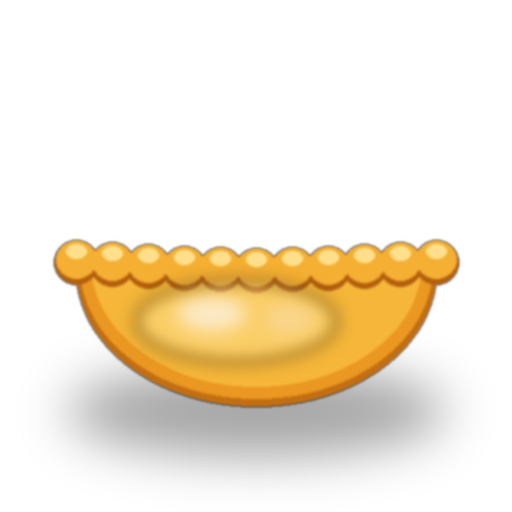
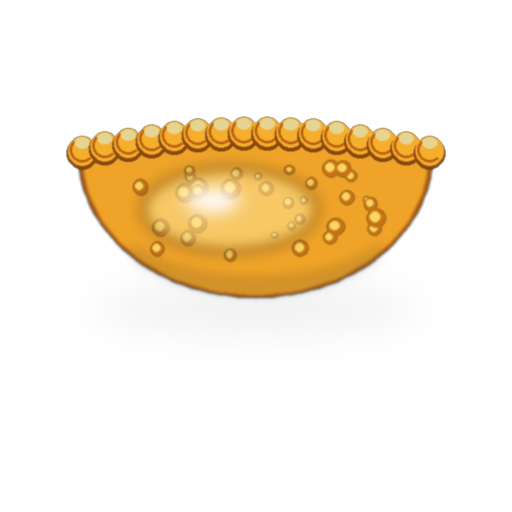
feat: empanada 3d ultra mejorada con rotacion 360 y visibilidad de suite de iconos 3d en dashboard y tpv

diff --git a/src/components/erp/DashboardModule.tsx b/src/components/erp/DashboardModule.tsx
@@ -98,10 +98,62 @@ export function DashboardModule() {
     <div className="space-y-4 sm:space-y-6 p-3 sm:p-6">
       <div className="flex flex-col sm:flex-row sm:items-center sm:justify-between gap-3 sm:gap-4">
         <div>
-          <h1 className="text-xl sm:text-2xl font-bold text-foreground flex items-center gap-2 flex-wrap">
-            Bienvenido a NovaSystem · Dr. Empanadas <Emoji3D name="empanada" size={32} />
-          </h1>
-          <p className="text-xs sm:text-sm text-muted-foreground mt-0.5">
+          <div className="flex items-center gap-3 flex-wrap">
+            <h1 className="text-xl sm:text-2xl font-bold text-foreground flex items-center gap-2.5">
+              Bienvenido a NovaSystem · Dr. Empanadas
+            </h1>
+            <div className="relative group inline-block">
+              <Emoji3D
+                name="empanada"
+                size={44}
+                spin360
+                interactive
+                className="cursor-pointer filter hover:drop-shadow-[0_4px_12px_rgba(245,158,11,0.5)] transition-all"
+              />
+              <span className="absolute -bottom-6 left-1/2 -translate-x-1/2 whitespace-nowrap bg-slate-900 text-amber-300 text-[10px] font-bold px-2 py-0.5 rounded-full opacity-0 group-hover:opacity-100 transition pointer-events-none shadow-md border border-amber-500/30">
+                Gira 360° en 3D 🔄
+              </span>
+            </div>
+          </div>
+
+          {/* Vitrina 3D Criolla (Empanada, Pastelito, Malta, Café) */}
+          <div className="flex items-center gap-2 mt-2 flex-wrap">
+            <span className="text-[11px] font-semibold text-muted-foreground mr-1">Iconos 3D de la Casa:</span>
+            <div
+              onClick={() => pos.setActiveModule("pos")}
+              className="flex items-center gap-1.5 px-2.5 py-1 rounded-xl bg-amber-500/10 border border-amber-500/25 hover:bg-amber-500/20 text-amber-700 dark:text-amber-300 text-xs font-semibold cursor-pointer transition active:scale-95"
+              title="Empanada Criolla 3D — Toca para probar en TPV"
+            >
+              <Emoji3D name="empanada" size={20} spinOnHover interactive />
+              <span>Empanada 3D</span>
+            </div>
+            <div
+              onClick={() => pos.setActiveModule("pos")}
+              className="flex items-center gap-1.5 px-2.5 py-1 rounded-xl bg-orange-500/10 border border-orange-500/25 hover:bg-orange-500/20 text-orange-700 dark:text-orange-300 text-xs font-semibold cursor-pointer transition active:scale-95"
+              title="Pastelito 3D — Toca para probar en TPV"
+            >
+              <Emoji3D name="pastelito" size={20} spinOnHover interactive />
+              <span>Pastelito 3D</span>
+            </div>
+            <div
+              onClick={() => pos.setActiveModule("pos")}
+              className="flex items-center gap-1.5 px-2.5 py-1 rounded-xl bg-blue-500/10 border border-blue-500/25 hover:bg-blue-500/20 text-blue-700 dark:text-blue-300 text-xs font-semibold cursor-pointer transition active:scale-95"
+              title="Malta Polar 3D — Toca para probar en TPV"
+            >
+              <Emoji3D name="malta" size={20} spinOnHover interactive />
+              <span>Malta 3D</span>
+            </div>
+            <div
+              onClick={() => pos.setActiveModule("pos")}
+              className="flex items-center gap-1.5 px-2.5 py-1 rounded-xl bg-stone-500/10 border border-stone-500/25 hover:bg-stone-500/20 text-stone-700 dark:text-stone-300 text-xs font-semibold cursor-pointer transition active:scale-95"
+              title="Café Expreso 3D — Toca para probar en TPV"
+            >
+              <Emoji3D name="cafe" size={20} spinOnHover interactive />
+              <span>Café 3D</span>
+            </div>
+          </div>
+
+          <p className="text-xs sm:text-sm text-muted-foreground mt-1.5">
             Resumen ejecutivo —{" "}
             {new Date().toLocaleDateString("es-VE", {
               weekday: "long",

diff --git a/src/components/common/Emoji3D.tsx b/src/components/common/Emoji3D.tsx
@@ -1,41 +1,84 @@
-import React from "react";
+import React, { useState } from "react";
+
+export type Emoji3DName = "empanada" | "pastelito" | "malta" | "cafe";
 
 interface Emoji3DProps {
-  name: "empanada" | "pastelito" | "malta";
+  name: Emoji3DName;
   size?: number | string;
   className?: string;
   alt?: string;
+  spin360?: boolean;
+  interactive?: boolean;
+  spinOnHover?: boolean;
+  onClick?: () => void;
 }
 
-const EMOJI_MAP = {
+const EMOJI_MAP: Record<Emoji3DName, string> = {
   empanada: "/emojis/3d-empanada.png",
   pastelito: "/emojis/3d-pastelito.png",
   malta: "/emojis/3d-malta.png",
+  cafe: "/emojis/3d-cafe.png",
 };
 
-const ALT_MAP = {
-  empanada: "🥟",
-  pastelito: "🥪",
-  malta: "🥤",
+const ALT_MAP: Record<Emoji3DName, string> = {
+  empanada: "🥟 Empanada 3D",
+  pastelito: "🥪 Pastelito 3D",
+  malta: "🥤 Malta 3D",
+  cafe: "☕ Café 3D",
 };
 
-export function Emoji3D({ name, size = 28, className = "", alt }: Emoji3DProps) {
+export function Emoji3D({
+  name,
+  size = 32,
+  className = "",
+  alt,
+  spin360 = false,
+  interactive = false,
+  spinOnHover = false,
+  onClick,
+}: Emoji3DProps) {
+  const [isSpinning, setIsSpinning] = useState(false);
   const src = EMOJI_MAP[name] || EMOJI_MAP.empanada;
   const fallbackAlt = alt || ALT_MAP[name] || "emoji";
 
+  const numSize = typeof size === "number" ? size : parseInt(String(size), 10) || 32;
+
+  function handleClick(e: React.MouseEvent) {
+    if (interactive) {
+      setIsSpinning(true);
+      setTimeout(() => setIsSpinning(false), 800);
+    }
+    if (onClick) onClick();
+  }
+
   return (
-    <img
-      src={src}
-      alt={fallbackAlt}
-      width={size}
-      height={size}
-      loading="eager"
-      className={`inline-block align-middle transition-transform duration-200 hover:scale-115 select-none drop-shadow-sm ${className}`}
+    <span
+      className={`inline-flex items-center justify-center select-none align-middle perspective-500 ${
+        interactive ? "cursor-pointer" : ""
+      } ${className}`}
       style={{
-        width: typeof size === "number" ? `${size}px` : size,
-        height: typeof size === "number" ? `${size}px` : size,
-        objectFit: "contain",
+        width: `${numSize}px`,
+        height: `${numSize}px`,
+        perspective: "600px",
       }}
-    />
+      onClick={handleClick}
+      title={interactive ? "¡Tócame para girar 360°!" : fallbackAlt}
+    >
+      <img
+        src={src}
+        alt={fallbackAlt}
+        width={numSize}
+        height={numSize}
+        loading="eager"
+        className={`w-full h-full object-contain drop-shadow-md transition-all duration-300 will-change-transform ${
+          spin360 ? "animate-spin-360-slow" : ""
+        } ${spinOnHover ? "hover:rotate-y-180 hover:scale-115" : ""} ${
+          isSpinning ? "animate-spin-360-fast" : ""
+        }`}
+        style={{
+          transformStyle: "preserve-3d",
+        }}
+      />
+    </span>
   );
 }

diff --git a/src/routes/index.tsx b/src/routes/index.tsx
@@ -73,21 +73,31 @@ export function PosTerminal() {
           </button>
         </div>
 
-        {/* Modern Category Pills */}
+        {/* Modern Category Pills with 3D Icons */}
         <div className="mt-3 flex gap-2 overflow-x-auto pb-1 no-scrollbar">
-          {CATEGORIES.map((c) => (
-            <button
-              key={c}
-              onClick={() => setCat(c)}
-              className={`whitespace-nowrap rounded-xl px-4 py-2 text-xs font-bold transition-all select-none active:scale-95 ${
-                cat === c
-                  ? "bg-primary text-primary-foreground shadow-sm shadow-primary/25"
-                  : "border border-border/80 bg-card text-muted-foreground hover:border-primary/40 hover:text-foreground hover:bg-secondary/70"
-              }`}
-            >
-              {c}
-            </button>
-          ))}
+          {CATEGORIES.map((c) => {
+            const getIcon = () => {
+              if (c === "Empanadas") return <Emoji3D name="empanada" size={20} spinOnHover />;
+              if (c === "Pastelitos") return <Emoji3D name="pastelito" size={20} spinOnHover />;
+              if (c === "Bebidas") return <Emoji3D name="malta" size={20} spinOnHover />;
+              if (c === "Café") return <Emoji3D name="cafe" size={20} spinOnHover />;
+              return null;
+            };
+            return (
+              <button
+                key={c}
+                onClick={() => setCat(c)}
+                className={`whitespace-nowrap rounded-xl px-3.5 py-2 text-xs font-bold transition-all select-none active:scale-95 flex items-center gap-1.5 ${
+                  cat === c
+                    ? "bg-primary text-primary-foreground shadow-sm shadow-primary/25"
+                    : "border border-border/80 bg-card text-muted-foreground hover:border-primary/40 hover:text-foreground hover:bg-secondary/70"
+                }`}
+              >
+                {getIcon()}
+                <span>{c}</span>
+              </button>
+            );
+          })}
         </div>
 
         {/* Product Cards Grid */}

diff --git a/src/components/pos/ProductCard.tsx b/src/components/pos/ProductCard.tsx
@@ -1,5 +1,6 @@
 import type { Product } from "@/types/pos";
 import { fmtBs, fmtUsd } from "@/lib/money";
+import { Emoji3D } from "@/components/common/Emoji3D";
 
 export function ProductCard({ product, rate, onAdd }: { product: Product; rate: number; onAdd: (p: Product, mod?: string) => void }) {
   const low = product.stockBar < 25;
@@ -25,7 +26,17 @@ export function ProductCard({ product, rate, onAdd }: { product: Product; rate: 
                 : "bg-gradient-to-br from-cyan-500/20 via-blue-500/10 to-indigo-500/20 text-cyan-700 dark:text-cyan-300 border border-cyan-500/20"
             }`}
           >
-            {product.emoji}
+            {product.category === "Empanadas" || product.name.toLowerCase().includes("empanada") ? (
+              <Emoji3D name="empanada" size={36} spinOnHover />
+            ) : product.category === "Pastelitos" || product.name.toLowerCase().includes("pastelito") ? (
+              <Emoji3D name="pastelito" size={36} spinOnHover />
+            ) : product.category === "Bebidas" || product.name.toLowerCase().includes("malta") ? (
+              <Emoji3D name="malta" size={36} spinOnHover />
+            ) : product.name.toLowerCase().includes("café") || product.name.toLowerCase().includes("cafe") ? (
+              <Emoji3D name="cafe" size={36} spinOnHover />
+            ) : (
+              <span>{product.emoji}</span>
+            )}
           </div>
           <span
             className={`rounded-full px-2 py-0.5 font-mono text-[10px] font-bold tracking-tight transition-colors ${

diff --git a/src/styles.css b/src/styles.css
@@ -243,3 +243,25 @@
   .print-area, .print-area * { visibility: visible !important; }
   .print-area { display: block !important; position: absolute; left: 0; top: 0; background: #fff; color: #000; }
 }
+
+
+/* 3D Spin 360 Animations for Custom Food Emojis */
+@keyframes spin360 {
+  0% {
+    transform: perspective(800px) rotateY(0deg);
+  }
+  50% {
+    transform: perspective(800px) rotateY(180deg) scale(1.08);
+  }
+  100% {
+    transform: perspective(800px) rotateY(360deg);
+  }
+}
+
+.animate-spin-360-slow {
+  animation: spin360 9s cubic-bezier(0.45, 0.05, 0.55, 0.95) infinite;
+}
+
+.animate-spin-360-fast {
+  animation: spin360 0.8s cubic-bezier(0.34, 1.56, 0.64, 1);
+}
